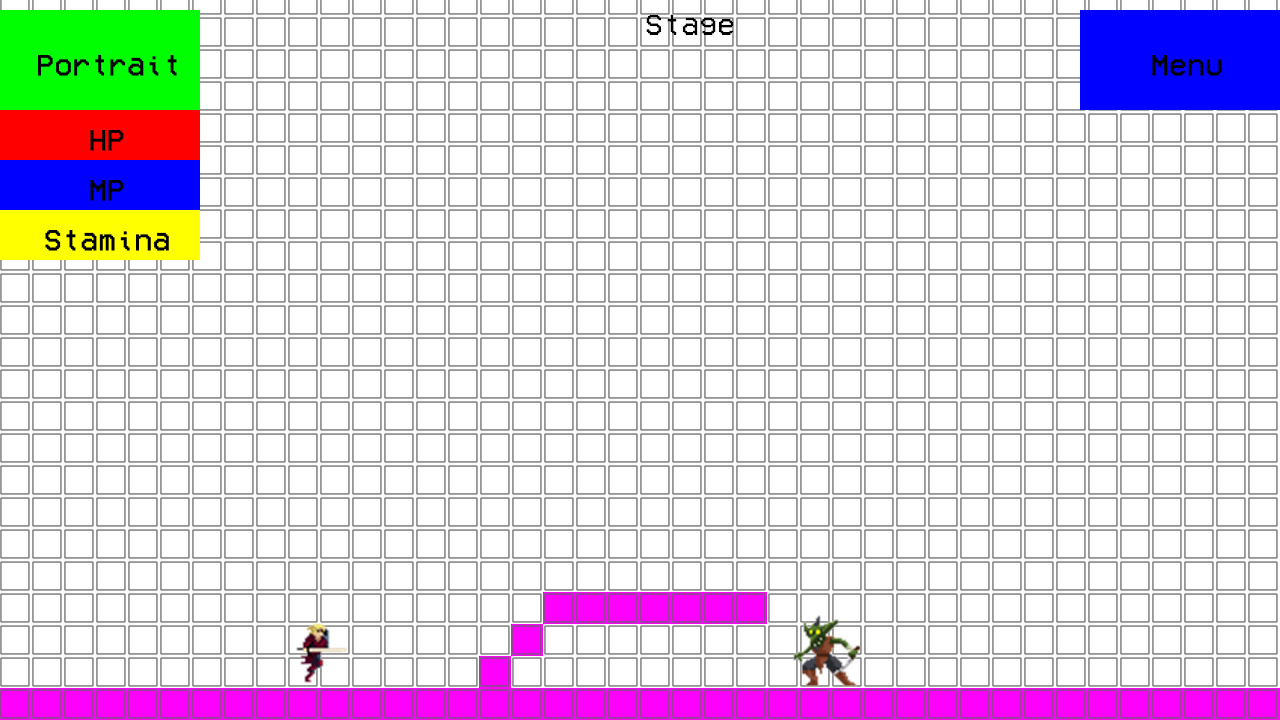
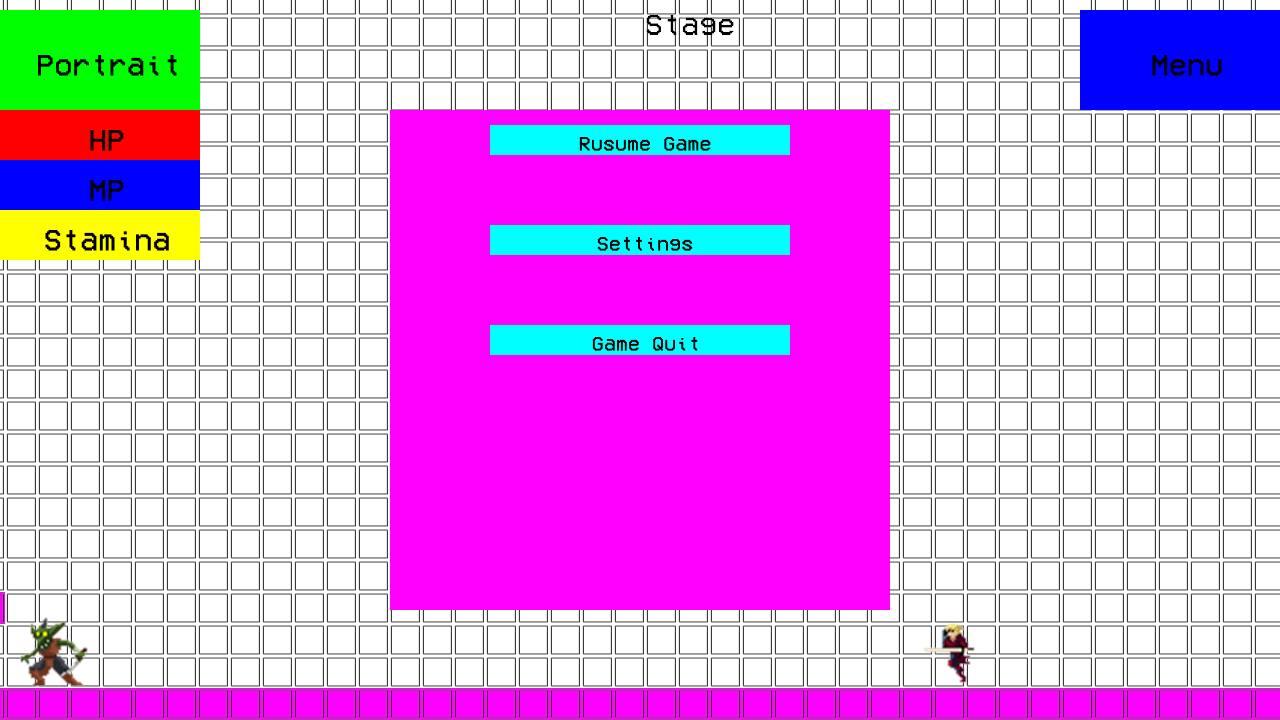
#desktop
인게임 Menu 창 제작중

diff --git a/OpenGL-portfolio/game/stage.cpp b/OpenGL-portfolio/game/stage.cpp
@@ -115,6 +115,8 @@ void loadStage()
 
 
 	createPopPlayerUI();
+	createPopMenuUI();
+
 
 	
 }
@@ -122,7 +124,7 @@ void loadStage()
 void freeStage()
 {
 	freePopPlayerUI();
-
+	freePopMenuUI();
 	free(maptile);
 
 	delete hero;
@@ -282,6 +284,8 @@ void drawStage(float dt)
 
 	drawPopPlayerUI(dt);
 	showPopPlayerUI(true);
+
+	drawPopMenuUI(dt);
 
 }
 
@@ -464,6 +468,14 @@ bool keyPopPlayerUI(iKeyState stat, iPoint point)
 			if (i == -1)
 				break;
 
+			else if(i == 0)
+			{
+				printf("selected = %d\n", i);
+
+				showPopMenuUI(true);
+			}
+
+		
 			else
 				printf("seletecd = %d\n", i);
 			break;
@@ -493,6 +505,105 @@ bool keyPopPlayerUI(iKeyState stat, iPoint point)
 void showPopPlayerUI(bool show)
 {
 	PopPlayerUI->show(show);
+}
+
+//--------------PopMenuUI---------------------/
+
+iPopup* PopMenuUI;
+iImage** PopMenuUIImgs;
+
+const char* btnString[3] = { "Rusume Game", "Settings", "Game Quit" };
+
+void createPopMenuUI()
+{
+	iPopup* pop = new iPopup(iPopupStyleAlpha);
+	iGraphics* g = iGraphics::instance();
+	iSize size = iSizeMake(500, 500);
+
+	PopMenuUIImgs = (iImage**)malloc(sizeof(iImage*) * 3);
+
+	// Background //
+	{
+		iImage* img = new iImage();
+		Texture* tex;
+		g->init(size);
+		setStringRGBA(0, 0, 0, 1);
+		setRGBA(1, 0, 1, 1);
+		g->fillRect(0, 0, size.width, size.height);
+
+		tex = g->getTexture();
+		img->addObject(tex);
+		freeImage(tex);
+		img->position = iPointMake(0,0);
+
+		pop->addObject(img);
+	}
+
+	// buttons
+	{
+		setRGBA(0, 1, 1, 1);
+		setStringRGBA(0, 0, 0, 1);
+		setStringSize(20);
+		
+		iSize btnSize = iSizeMake(300, 30);
+		
+		for(int i= 0; i<3; i++)
+		{
+			Texture* tex;
+			iImage* btnImg = new iImage();
+			
+			g->init(btnSize);
+			g->fillRect(0,0,btnSize.width, btnSize.height);
+			g->drawString(btnSize.width / 2, btnSize.height / 2, HCENTER | VCENTER, btnString[i]);
+
+			tex = g->getTexture();
+			btnImg->addObject(tex);
+			freeImage(tex);
+
+			btnImg->position = iPointMake((size.width - btnSize.width) /2,i*100 +15);
+			PopMenuUIImgs[i] = btnImg;
+			pop->addObject(btnImg);
+		
+		}
+		
+	}
+
+
+	// 메뉴창에 간단하게 게임 설명(목표) 넣는 부분
+
+
+
+
+	
+	pop->openPosition = iPointMake((devSize.width - size.width) / 2,(devSize.height - size.height)/2);
+	pop->closePosition = pop->openPosition;
+
+	PopMenuUI = pop;
+
+	setRGBA(1, 1, 1, 1);
+	
+}
+
+void freePopMenuUI()
+{
+	delete PopMenuUI;
+
+	free(PopMenuUIImgs);
+}
+
+void drawPopMenuUI(float dt)
+{
+	PopMenuUI->paint(dt);
+}
+
+bool keyPopMenuUI(iKeyState stat, iPoint point)
+{
+	return true;
+}
+
+void showPopMenuUI(bool show)
+{
+	PopMenuUI->show(show);
 }
 
 

diff --git a/OpenGL-portfolio/game/stage.h b/OpenGL-portfolio/game/stage.h
@@ -38,3 +38,10 @@ void freePopPlayerUI();
 void drawPopPlayerUI(float dt);
 bool keyPopPlayerUI(iKeyState stat, iPoint point);
 void showPopPlayerUI(bool show);
+
+//------------PopMenuUI------------------------// 
+void createPopMenuUI();
+void freePopMenuUI();
+void drawPopMenuUI(float dt);
+bool keyPopMenuUI(iKeyState stat, iPoint point);
+void showPopMenuUI(bool show);
